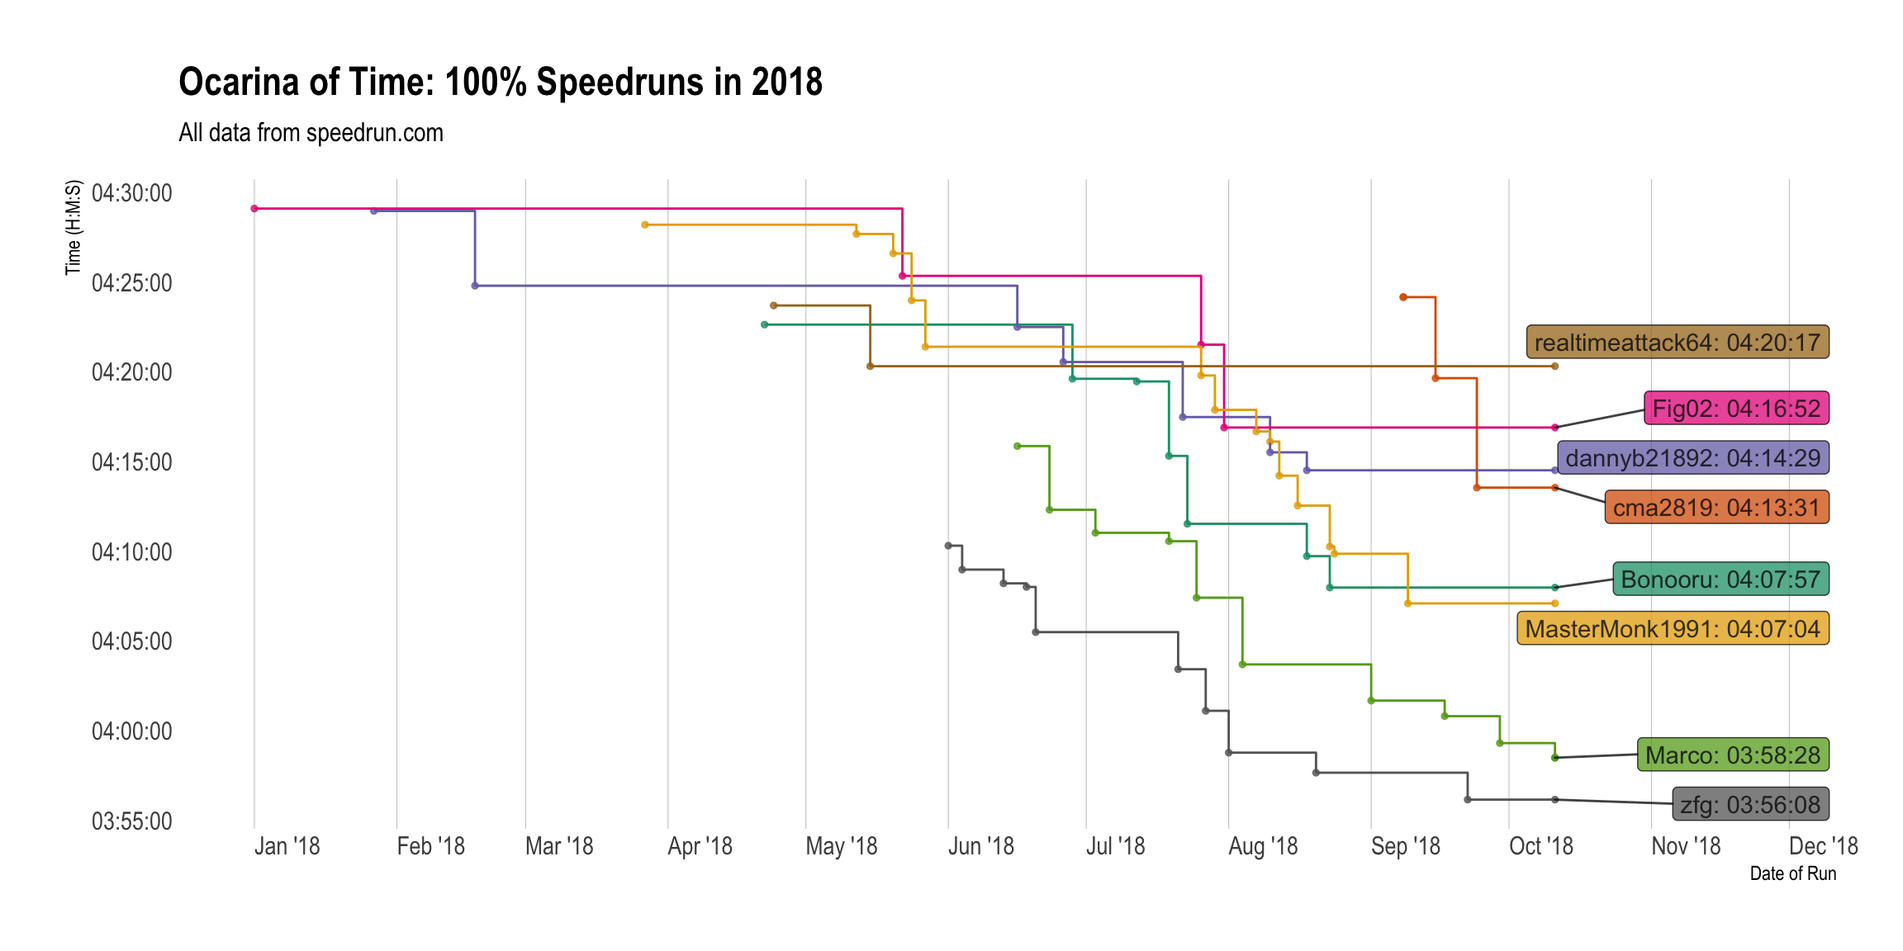
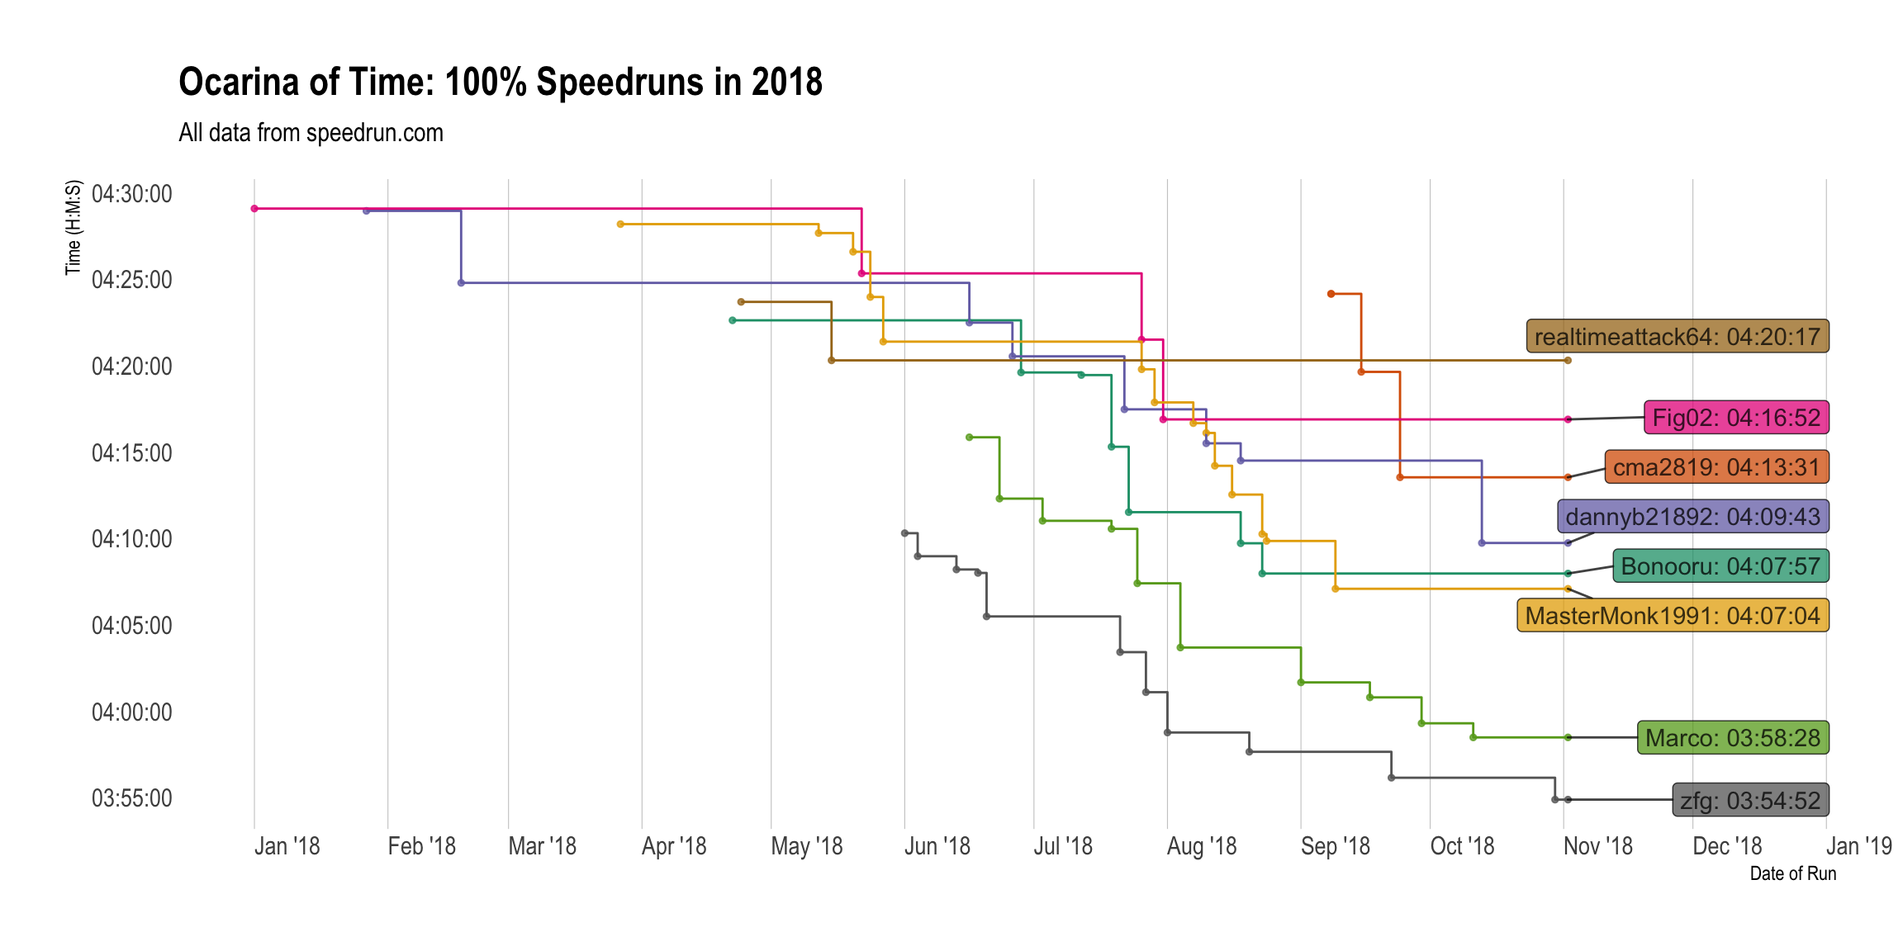
Rebuild everything

diff --git a/docs/articles/ocarina-of-time-100-.html b/docs/articles/ocarina-of-time-100-.html
@@ -82,7 +82,7 @@
       <h1>Ocarina of Time 100%</h1>
                         <h4 class="author">Lukas Burk</h4>
             
-            <h4 class="date">2018-10-11</h4>
+            <h4 class="date">2018-11-02</h4>
       
       <small class="dont-index">Source: <a href="https://github.com/jemus42/speedrunr/blob/master/vignettes/ocarina-of-time-100-.Rmd"><code>vignettes/ocarina-of-time-100-.Rmd</code></a></small>
       <div class="hidden name"><code>ocarina-of-time-100-.Rmd</code></div>
@@ -134,26 +134,26 @@
 <a class="sourceLine" id="cb3-4" data-line-number="4">oot100 &lt;-<span class="st"> </span><span class="kw"><a href="../reference/get_runs.html">get_runs</a></span>(<span class="dt">game =</span> <span class="st">"j1l9qz1g"</span>, <span class="dt">category =</span> <span class="st">"q255jw2o"</span>, <span class="dt">max =</span> <span class="ot">Inf</span>)</a></code></pre></div>
 <p>Note that I’m useing <code>max = Inf</code> to make sure I get <em>all</em> the runs.</p>
 <div class="sourceCode" id="cb4"><pre class="sourceCode r"><code class="sourceCode r"><a class="sourceLine" id="cb4-1" data-line-number="1"><span class="kw">str</span>(oot100)</a>
-<a class="sourceLine" id="cb4-2" data-line-number="2"><span class="co">#&gt; Classes 'tbl_df', 'tbl' and 'data.frame':    539 obs. of  22 variables:</span></a>
-<a class="sourceLine" id="cb4-3" data-line-number="3"><span class="co">#&gt;  $ id             : chr  "z51vk85m" "yl4r56rm" "yl4r16xm" "y923l3ez" ...</span></a>
-<a class="sourceLine" id="cb4-4" data-line-number="4"><span class="co">#&gt;  $ weblink        : chr  "https://www.speedrun.com/oot/run/z51vk85m" "https://www.speedrun.com/oot/run/yl4r56rm" "https://www.speedrun.com/oot/run/yl4r16xm" "https://www.speedrun.com/oot/run/y923l3ez" ...</span></a>
+<a class="sourceLine" id="cb4-2" data-line-number="2"><span class="co">#&gt; Classes 'tbl_df', 'tbl' and 'data.frame':    540 obs. of  22 variables:</span></a>
+<a class="sourceLine" id="cb4-3" data-line-number="3"><span class="co">#&gt;  $ id             : chr  "z11p7k9z" "yl4ej6rm" "z51vk85m" "yl4r56rm" ...</span></a>
+<a class="sourceLine" id="cb4-4" data-line-number="4"><span class="co">#&gt;  $ weblink        : chr  "https://www.speedrun.com/oot/run/z11p7k9z" "https://www.speedrun.com/oot/run/yl4ej6rm" "https://www.speedrun.com/oot/run/z51vk85m" "https://www.speedrun.com/oot/run/yl4r56rm" ...</span></a>
 <a class="sourceLine" id="cb4-5" data-line-number="5"><span class="co">#&gt;  $ game           : chr  "j1l9qz1g" "j1l9qz1g" "j1l9qz1g" "j1l9qz1g" ...</span></a>
 <a class="sourceLine" id="cb4-6" data-line-number="6"><span class="co">#&gt;  $ level          : logi  NA NA NA NA NA NA ...</span></a>
 <a class="sourceLine" id="cb4-7" data-line-number="7"><span class="co">#&gt;  $ category       : chr  "q255jw2o" "q255jw2o" "q255jw2o" "q255jw2o" ...</span></a>
-<a class="sourceLine" id="cb4-8" data-line-number="8"><span class="co">#&gt;  $ videos         : chr  "https://www.youtube.com/watch?v=jTH_lZNUeGA" "https://www.youtube.com/watch?v=gZjxgUpNNOM" "https://www.twitch.tv/videos/314099685" "https://www.youtube.com/watch?v=Fw5i584lHRI" ...</span></a>
+<a class="sourceLine" id="cb4-8" data-line-number="8"><span class="co">#&gt;  $ videos         : chr  "https://www.youtube.com/watch?v=HaUTONEwj8I" "https://www.youtube.com/watch?v=ad-56T4uJto" "https://www.youtube.com/watch?v=jTH_lZNUeGA" "https://www.youtube.com/watch?v=gZjxgUpNNOM" ...</span></a>
 <a class="sourceLine" id="cb4-9" data-line-number="9"><span class="co">#&gt;  $ status         : chr  "verified" "verified" "verified" "verified" ...</span></a>
-<a class="sourceLine" id="cb4-10" data-line-number="10"><span class="co">#&gt;  $ comment        : chr  NA NA "4th dampe." "1st try dampe.  during the oot vs oot3d 100% race." ...</span></a>
-<a class="sourceLine" id="cb4-11" data-line-number="11"><span class="co">#&gt;  $ player_id      : chr  "v819rrxp" "v819rrxp" "68wq9z8g" "e8e5v680" ...</span></a>
-<a class="sourceLine" id="cb4-12" data-line-number="12"><span class="co">#&gt;  $ player_url     : chr  "https://www.speedrun.com/user/Marco" "https://www.speedrun.com/user/Marco" "https://www.speedrun.com/user/cma2819" "https://www.speedrun.com/user/zfg" ...</span></a>
-<a class="sourceLine" id="cb4-13" data-line-number="13"><span class="co">#&gt;  $ player_name    : chr  "Marco" "Marco" "cma2819" "zfg" ...</span></a>
+<a class="sourceLine" id="cb4-10" data-line-number="10"><span class="co">#&gt;  $ comment        : chr  "2nd try dampe" "Biggest mistake was losing 1:20 to forgetting a heart piece lol. Average RNG, 40 seconds to save at each of fis"| __truncated__ NA NA ...</span></a>
+<a class="sourceLine" id="cb4-11" data-line-number="11"><span class="co">#&gt;  $ player_id      : chr  "e8e5v680" "qjn35kwx" "v819rrxp" "v819rrxp" ...</span></a>
+<a class="sourceLine" id="cb4-12" data-line-number="12"><span class="co">#&gt;  $ player_url     : chr  "https://www.speedrun.com/user/zfg" "https://www.speedrun.com/user/dannyb21892" "https://www.speedrun.com/user/Marco" "https://www.speedrun.com/user/Marco" ...</span></a>
+<a class="sourceLine" id="cb4-13" data-line-number="13"><span class="co">#&gt;  $ player_name    : chr  "zfg" "dannyb21892" "Marco" "Marco" ...</span></a>
 <a class="sourceLine" id="cb4-14" data-line-number="14"><span class="co">#&gt;  $ player_role    : chr  "user" "user" "user" "user" ...</span></a>
-<a class="sourceLine" id="cb4-15" data-line-number="15"><span class="co">#&gt;  $ player_signup  : POSIXct, format: "2015-02-17 18:25:39" "2015-02-17 18:25:39" ...</span></a>
-<a class="sourceLine" id="cb4-16" data-line-number="16"><span class="co">#&gt;  $ date           : Date, format: "2018-10-11" "2018-09-29" ...</span></a>
-<a class="sourceLine" id="cb4-17" data-line-number="17"><span class="co">#&gt;  $ submitted      : POSIXct, format: "2018-10-11 04:03:38" "2018-09-29 13:12:43" ...</span></a>
-<a class="sourceLine" id="cb4-18" data-line-number="18"><span class="co">#&gt;  $ time_primary   : int  14308 14357 15211 14168 14447 20884 15577 22987 14824 22265 ...</span></a>
-<a class="sourceLine" id="cb4-19" data-line-number="19"><span class="co">#&gt;  $ time_realtime  : int  14308 14357 15211 14168 14447 20884 15577 22987 14824 22265 ...</span></a>
+<a class="sourceLine" id="cb4-15" data-line-number="15"><span class="co">#&gt;  $ player_signup  : POSIXct, format: "2015-02-17 03:55:57" "2015-10-28 13:39:39" ...</span></a>
+<a class="sourceLine" id="cb4-16" data-line-number="16"><span class="co">#&gt;  $ date           : Date, format: "2018-10-30" "2018-10-13" ...</span></a>
+<a class="sourceLine" id="cb4-17" data-line-number="17"><span class="co">#&gt;  $ submitted      : POSIXct, format: "2018-10-31 01:33:08" "2018-10-13 20:39:56" ...</span></a>
+<a class="sourceLine" id="cb4-18" data-line-number="18"><span class="co">#&gt;  $ time_primary   : int  14092 14983 14308 14357 15211 14168 14447 20884 15577 22987 ...</span></a>
+<a class="sourceLine" id="cb4-19" data-line-number="19"><span class="co">#&gt;  $ time_realtime  : int  14092 14983 14308 14357 15211 14168 14447 20884 15577 22987 ...</span></a>
 <a class="sourceLine" id="cb4-20" data-line-number="20"><span class="co">#&gt;  $ time_ingame    : int  0 0 0 0 0 0 0 0 0 0 ...</span></a>
-<a class="sourceLine" id="cb4-21" data-line-number="21"><span class="co">#&gt;  $ time_hms       : 'hms' num  03:58:28 03:59:17 04:13:31 03:56:08 ...</span></a>
+<a class="sourceLine" id="cb4-21" data-line-number="21"><span class="co">#&gt;  $ time_hms       : 'hms' num  03:54:52 04:09:43 03:58:28 03:59:17 ...</span></a>
 <a class="sourceLine" id="cb4-22" data-line-number="22"><span class="co">#&gt;   ..- attr(*, "units")= chr "secs"</span></a>
 <a class="sourceLine" id="cb4-23" data-line-number="23"><span class="co">#&gt;  $ system_platform: chr  "nzelreqp" "nzelreqp" "nzelreqp" "nzelreqp" ...</span></a>
 <a class="sourceLine" id="cb4-24" data-line-number="24"><span class="co">#&gt;  $ system_emulated: logi  FALSE FALSE FALSE FALSE FALSE FALSE ...</span></a>
@@ -182,72 +182,72 @@
 </tr></thead>
 <tbody>
 <tr class="odd">
+<td align="left">03:54:52</td>
+<td align="left">zfg</td>
+<td align="left">2018-10-30</td>
+<td align="left">Wii Virtual Console</td>
+<td align="left">JPN / NTSC</td>
+</tr>
+<tr class="even">
 <td align="left">03:56:08</td>
 <td align="left">zfg</td>
 <td align="left">2018-09-22</td>
 <td align="left">Wii Virtual Console</td>
 <td align="left">JPN / NTSC</td>
 </tr>
-<tr class="even">
+<tr class="odd">
 <td align="left">03:57:38</td>
 <td align="left">zfg</td>
 <td align="left">2018-08-20</td>
 <td align="left">Wii Virtual Console</td>
 <td align="left">JPN / NTSC</td>
 </tr>
-<tr class="odd">
+<tr class="even">
 <td align="left">03:58:28</td>
 <td align="left">Marco</td>
 <td align="left">2018-10-11</td>
 <td align="left">Wii Virtual Console</td>
 <td align="left">JPN / NTSC</td>
 </tr>
-<tr class="even">
+<tr class="odd">
 <td align="left">03:58:45</td>
 <td align="left">zfg</td>
 <td align="left">2018-08-01</td>
 <td align="left">Wii Virtual Console</td>
 <td align="left">JPN / NTSC</td>
 </tr>
-<tr class="odd">
+<tr class="even">
 <td align="left">03:59:17</td>
 <td align="left">Marco</td>
 <td align="left">2018-09-29</td>
 <td align="left">Wii Virtual Console</td>
 <td align="left">JPN / NTSC</td>
 </tr>
-<tr class="even">
+<tr class="odd">
 <td align="left">04:00:47</td>
 <td align="left">Marco</td>
 <td align="left">2018-09-17</td>
 <td align="left">Wii Virtual Console</td>
 <td align="left">JPN / NTSC</td>
 </tr>
-<tr class="odd">
+<tr class="even">
 <td align="left">04:01:05</td>
 <td align="left">zfg</td>
 <td align="left">2018-07-27</td>
 <td align="left">Wii Virtual Console</td>
 <td align="left">JPN / NTSC</td>
 </tr>
-<tr class="even">
+<tr class="odd">
 <td align="left">04:01:39</td>
 <td align="left">Marco</td>
 <td align="left">2018-09-01</td>
 <td align="left">Wii Virtual Console</td>
 <td align="left">JPN / NTSC</td>
 </tr>
-<tr class="odd">
+<tr class="even">
 <td align="left">04:03:24</td>
 <td align="left">zfg</td>
 <td align="left">2018-07-21</td>
-<td align="left">Wii Virtual Console</td>
-<td align="left">JPN / NTSC</td>
-</tr>
-<tr class="even">
-<td align="left">04:03:40</td>
-<td align="left">Marco</td>
-<td align="left">2018-08-04</td>
 <td align="left">Wii Virtual Console</td>
 <td align="left">JPN / NTSC</td>
 </tr>
@@ -290,14 +290,14 @@
 <a class="sourceLine" id="cb7-2" data-line-number="2"></a>
 <a class="sourceLine" id="cb7-3" data-line-number="3">tmp &lt;-<span class="st"> </span>oot100 <span class="op">%&gt;%</span></a>
 <a class="sourceLine" id="cb7-4" data-line-number="4"><span class="st">  </span><span class="kw"><a href="http://dplyr.tidyverse.org/reference/filter.html">filter</a></span>(time_hms <span class="op">&lt;</span><span class="st"> </span>hms<span class="op">::</span><span class="kw"><a href="http://www.rdocumentation.org/packages/hms/topics/hms">hms</a></span>(<span class="dt">hours =</span> <span class="dv">4</span>, <span class="dt">minutes =</span> <span class="dv">30</span>),</a>
-<a class="sourceLine" id="cb7-5" data-line-number="5">         date <span class="op">&gt;=</span><span class="st"> </span><span class="kw"><a href="http://lubridate.tidyverse.org/reference/ymd.html">ymd</a></span>(<span class="st">"2018-01-01"</span>)) <span class="op">%&gt;%</span></a>
+<a class="sourceLine" id="cb7-5" data-line-number="5">         date <span class="op">&gt;=</span><span class="st"> </span><span class="kw"><a href="http://www.rdocumentation.org/packages/lubridate/topics/ymd">ymd</a></span>(<span class="st">"2018-01-01"</span>)) <span class="op">%&gt;%</span></a>
 <a class="sourceLine" id="cb7-6" data-line-number="6"><span class="st">  </span><span class="kw"><a href="http://dplyr.tidyverse.org/reference/select.html">select</a></span>(player_name, time_hms, date)</a>
 <a class="sourceLine" id="cb7-7" data-line-number="7"></a>
 <a class="sourceLine" id="cb7-8" data-line-number="8"><span class="kw"><a href="http://dplyr.tidyverse.org/reference/bind.html">bind_rows</a></span>(</a>
 <a class="sourceLine" id="cb7-9" data-line-number="9">  tmp,</a>
 <a class="sourceLine" id="cb7-10" data-line-number="10">  tmp <span class="op">%&gt;%</span></a>
 <a class="sourceLine" id="cb7-11" data-line-number="11"><span class="st">    </span><span class="kw"><a href="http://dplyr.tidyverse.org/reference/group_by.html">group_by</a></span>(player_name) <span class="op">%&gt;%</span></a>
-<a class="sourceLine" id="cb7-12" data-line-number="12"><span class="st">    </span><span class="kw"><a href="http://dplyr.tidyverse.org/reference/summarise.html">summarize</a></span>(<span class="dt">time_hms =</span> <span class="kw">min</span>(time_hms), <span class="dt">date =</span> <span class="kw"><a href="http://lubridate.tidyverse.org/reference/today.html">today</a></span>()) <span class="op">%&gt;%</span></a>
+<a class="sourceLine" id="cb7-12" data-line-number="12"><span class="st">    </span><span class="kw"><a href="http://dplyr.tidyverse.org/reference/summarise.html">summarize</a></span>(<span class="dt">time_hms =</span> <span class="kw">min</span>(time_hms), <span class="dt">date =</span> <span class="kw"><a href="http://www.rdocumentation.org/packages/lubridate/topics/today">today</a></span>()) <span class="op">%&gt;%</span></a>
 <a class="sourceLine" id="cb7-13" data-line-number="13"><span class="st">    </span>ungroup</a>
 <a class="sourceLine" id="cb7-14" data-line-number="14">) <span class="op">%&gt;%</span></a>
 <a class="sourceLine" id="cb7-15" data-line-number="15"><span class="st">  </span>{</a>
@@ -311,7 +311,7 @@
 <a class="sourceLine" id="cb7-23" data-line-number="23">                       <span class="dt">color =</span> <span class="st">"black"</span>, <span class="dt">alpha =</span> <span class="fl">.75</span>, <span class="dt">show.legend =</span> F,</a>
 <a class="sourceLine" id="cb7-24" data-line-number="24">                       <span class="dt">hjust =</span> <span class="dv">1</span>, <span class="dt">direction =</span> <span class="st">"y"</span>, <span class="dt">nudge_x =</span> <span class="dv">60</span><span class="op">^</span><span class="dv">2</span>) <span class="op">+</span></a>
 <a class="sourceLine" id="cb7-25" data-line-number="25"><span class="st">      </span><span class="kw"><a href="http://www.rdocumentation.org/packages/ggplot2/topics/scale_date">scale_x_date</a></span>(<span class="dt">date_breaks =</span> <span class="st">"1 month"</span>, <span class="dt">date_labels =</span> <span class="st">"%b '%y"</span>,</a>
-<a class="sourceLine" id="cb7-26" data-line-number="26">                   <span class="dt">limits =</span> <span class="kw">c</span>(<span class="kw">as.Date</span>(<span class="ot">NA</span>), <span class="kw"><a href="http://lubridate.tidyverse.org/reference/today.html">today</a></span>() <span class="op">+</span><span class="st"> </span><span class="kw"><a href="http://lubridate.tidyverse.org/reference/period.html">days</a></span>(<span class="dv">45</span>))) <span class="op">+</span></a>
+<a class="sourceLine" id="cb7-26" data-line-number="26">                   <span class="dt">limits =</span> <span class="kw">c</span>(<span class="kw">as.Date</span>(<span class="ot">NA</span>), <span class="kw"><a href="http://www.rdocumentation.org/packages/lubridate/topics/today">today</a></span>() <span class="op">+</span><span class="st"> </span><span class="kw"><a href="http://www.rdocumentation.org/packages/lubridate/topics/period">days</a></span>(<span class="dv">45</span>))) <span class="op">+</span></a>
 <a class="sourceLine" id="cb7-27" data-line-number="27"><span class="st">      </span><span class="kw"><a href="http://www.rdocumentation.org/packages/ggplot2/topics/scale_date">scale_y_time</a></span>(<span class="dt">breaks =</span> <span class="kw">seq</span>(<span class="dv">0</span>, <span class="dv">20</span> <span class="op">*</span><span class="st"> </span><span class="dv">60</span><span class="op">^</span><span class="dv">2</span>,  <span class="dv">1</span><span class="op">/</span><span class="dv">12</span> <span class="op">*</span><span class="st"> </span><span class="dv">60</span><span class="op">^</span><span class="dv">2</span>),</a>
 <a class="sourceLine" id="cb7-28" data-line-number="28">                   <span class="dt">minor_breaks =</span> <span class="kw">seq</span>(<span class="dv">0</span>, <span class="dv">20</span> <span class="op">*</span><span class="st"> </span><span class="dv">60</span><span class="op">^</span><span class="dv">2</span>, <span class="dv">1</span><span class="op">/</span><span class="dv">24</span> <span class="op">*</span><span class="st"> </span><span class="dv">60</span>)) <span class="op">+</span></a>
 <a class="sourceLine" id="cb7-29" data-line-number="29"><span class="st">      </span><span class="kw"><a href="http://www.rdocumentation.org/packages/ggplot2/topics/scale_brewer">scale_color_brewer</a></span>(<span class="dt">palette =</span> <span class="st">"Dark2"</span>, <span class="dt">guide =</span> F) <span class="op">+</span></a>

diff --git a/docs/index.html b/docs/index.html
@@ -330,104 +330,104 @@ Let’s get started:</p>
 </tr></thead>
 <tbody>
 <tr class="odd">
+<td align="left">2018-10-31 01:33:08</td>
+<td align="left">03:54:52</td>
+<td align="left"><a href="https://www.speedrun.com/user/zfg" class="uri">https://www.speedrun.com/user/zfg</a></td>
+</tr>
+<tr class="even">
 <td align="left">2018-09-23 01:03:54</td>
 <td align="left">03:56:08</td>
 <td align="left"><a href="https://www.speedrun.com/user/zfg" class="uri">https://www.speedrun.com/user/zfg</a></td>
 </tr>
-<tr class="even">
+<tr class="odd">
 <td align="left">2018-08-21 04:27:10</td>
 <td align="left">03:57:38</td>
 <td align="left"><a href="https://www.speedrun.com/user/zfg" class="uri">https://www.speedrun.com/user/zfg</a></td>
 </tr>
-<tr class="odd">
+<tr class="even">
 <td align="left">2018-10-11 04:03:38</td>
 <td align="left">03:58:28</td>
 <td align="left"><a href="https://www.speedrun.com/user/Marco" class="uri">https://www.speedrun.com/user/Marco</a></td>
 </tr>
-<tr class="even">
+<tr class="odd">
 <td align="left">2018-08-02 02:15:56</td>
 <td align="left">03:58:45</td>
 <td align="left"><a href="https://www.speedrun.com/user/zfg" class="uri">https://www.speedrun.com/user/zfg</a></td>
 </tr>
-<tr class="odd">
+<tr class="even">
 <td align="left">2018-09-29 13:12:43</td>
 <td align="left">03:59:17</td>
 <td align="left"><a href="https://www.speedrun.com/user/Marco" class="uri">https://www.speedrun.com/user/Marco</a></td>
 </tr>
-<tr class="even">
+<tr class="odd">
 <td align="left">2018-09-17 12:49:58</td>
 <td align="left">04:00:47</td>
 <td align="left"><a href="https://www.speedrun.com/user/Marco" class="uri">https://www.speedrun.com/user/Marco</a></td>
 </tr>
-<tr class="odd">
+<tr class="even">
 <td align="left">2018-07-28 05:47:32</td>
 <td align="left">04:01:05</td>
 <td align="left"><a href="https://www.speedrun.com/user/zfg" class="uri">https://www.speedrun.com/user/zfg</a></td>
 </tr>
-<tr class="even">
+<tr class="odd">
 <td align="left">2018-09-01 04:40:41</td>
 <td align="left">04:01:39</td>
 <td align="left"><a href="https://www.speedrun.com/user/Marco" class="uri">https://www.speedrun.com/user/Marco</a></td>
 </tr>
-<tr class="odd">
+<tr class="even">
 <td align="left">2018-07-22 03:15:39</td>
 <td align="left">04:03:24</td>
 <td align="left"><a href="https://www.speedrun.com/user/zfg" class="uri">https://www.speedrun.com/user/zfg</a></td>
 </tr>
-<tr class="even">
+<tr class="odd">
 <td align="left">2018-08-04 04:03:15</td>
 <td align="left">04:03:40</td>
 <td align="left"><a href="https://www.speedrun.com/user/Marco" class="uri">https://www.speedrun.com/user/Marco</a></td>
 </tr>
-<tr class="odd">
+<tr class="even">
 <td align="left">2018-06-21 02:28:51</td>
 <td align="left">04:05:28</td>
 <td align="left"><a href="https://www.speedrun.com/user/zfg" class="uri">https://www.speedrun.com/user/zfg</a></td>
 </tr>
-<tr class="even">
+<tr class="odd">
 <td align="left">2018-09-09 23:02:52</td>
 <td align="left">04:07:04</td>
 <td align="left"><a href="https://www.speedrun.com/user/MasterMonk1991" class="uri">https://www.speedrun.com/user/MasterMonk1991</a></td>
 </tr>
-<tr class="odd">
+<tr class="even">
 <td align="left">2018-07-25 04:07:52</td>
 <td align="left">04:07:23</td>
 <td align="left"><a href="https://www.speedrun.com/user/Marco" class="uri">https://www.speedrun.com/user/Marco</a></td>
 </tr>
-<tr class="even">
+<tr class="odd">
 <td align="left">2018-08-23 00:22:32</td>
 <td align="left">04:07:57</td>
 <td align="left"><a href="https://www.speedrun.com/user/Bonooru" class="uri">https://www.speedrun.com/user/Bonooru</a></td>
 </tr>
-<tr class="odd">
+<tr class="even">
 <td align="left">2018-06-19 05:20:57</td>
 <td align="left">04:07:59</td>
 <td align="left"><a href="https://www.speedrun.com/user/zfg" class="uri">https://www.speedrun.com/user/zfg</a></td>
 </tr>
-<tr class="even">
+<tr class="odd">
 <td align="left">2018-06-14 04:01:53</td>
 <td align="left">04:08:11</td>
 <td align="left"><a href="https://www.speedrun.com/user/zfg" class="uri">https://www.speedrun.com/user/zfg</a></td>
 </tr>
-<tr class="odd">
+<tr class="even">
 <td align="left">2018-06-05 03:41:59</td>
 <td align="left">04:08:57</td>
 <td align="left"><a href="https://www.speedrun.com/user/zfg" class="uri">https://www.speedrun.com/user/zfg</a></td>
 </tr>
-<tr class="even">
+<tr class="odd">
 <td align="left">2018-08-18 03:12:47</td>
 <td align="left">04:09:42</td>
 <td align="left"><a href="https://www.speedrun.com/user/Bonooru" class="uri">https://www.speedrun.com/user/Bonooru</a></td>
 </tr>
-<tr class="odd">
-<td align="left">2018-08-24 10:36:10</td>
-<td align="left">04:09:50</td>
-<td align="left"><a href="https://www.speedrun.com/user/MasterMonk1991" class="uri">https://www.speedrun.com/user/MasterMonk1991</a></td>
-</tr>
 <tr class="even">
-<td align="left">2018-08-23 14:48:18</td>
-<td align="left">04:10:14</td>
-<td align="left"><a href="https://www.speedrun.com/user/MasterMonk1991" class="uri">https://www.speedrun.com/user/MasterMonk1991</a></td>
+<td align="left">2018-10-13 20:39:56</td>
+<td align="left">04:09:43</td>
+<td align="left"><a href="https://www.speedrun.com/user/dannyb21892" class="uri">https://www.speedrun.com/user/dannyb21892</a></td>
 </tr>
 </tbody>
 </table>
@@ -535,7 +535,17 @@ Let’s get started:</p>
 </tr></thead>
 <tbody>
 <tr class="odd">
-<td align="right">15577</td>
+<td align="right">15748</td>
+<td align="left">JPN / NTSC</td>
+<td align="left">Wii Virtual Console</td>
+</tr>
+<tr class="even">
+<td align="right">15756</td>
+<td align="left">JPN / NTSC</td>
+<td align="left">Wii Virtual Console</td>
+</tr>
+<tr class="odd">
+<td align="right">25479</td>
 <td align="left">JPN / NTSC</td>
 <td align="left">Wii Virtual Console</td>
 </tr>
@@ -545,19 +555,9 @@ Let’s get started:</p>
 <td align="left">Wii Virtual Console</td>
 </tr>
 <tr class="odd">
-<td align="right">15886</td>
+<td align="right">15919</td>
 <td align="left">JPN / NTSC</td>
 <td align="left">Wii Virtual Console</td>
-</tr>
-<tr class="even">
-<td align="right">15837</td>
-<td align="left">JPN / NTSC</td>
-<td align="left">Wii Virtual Console</td>
-</tr>
-<tr class="odd">
-<td align="right">20589</td>
-<td align="left">JPN / NTSC</td>
-<td align="left">Nintendo 64</td>
 </tr>
 </tbody>
 </table>
